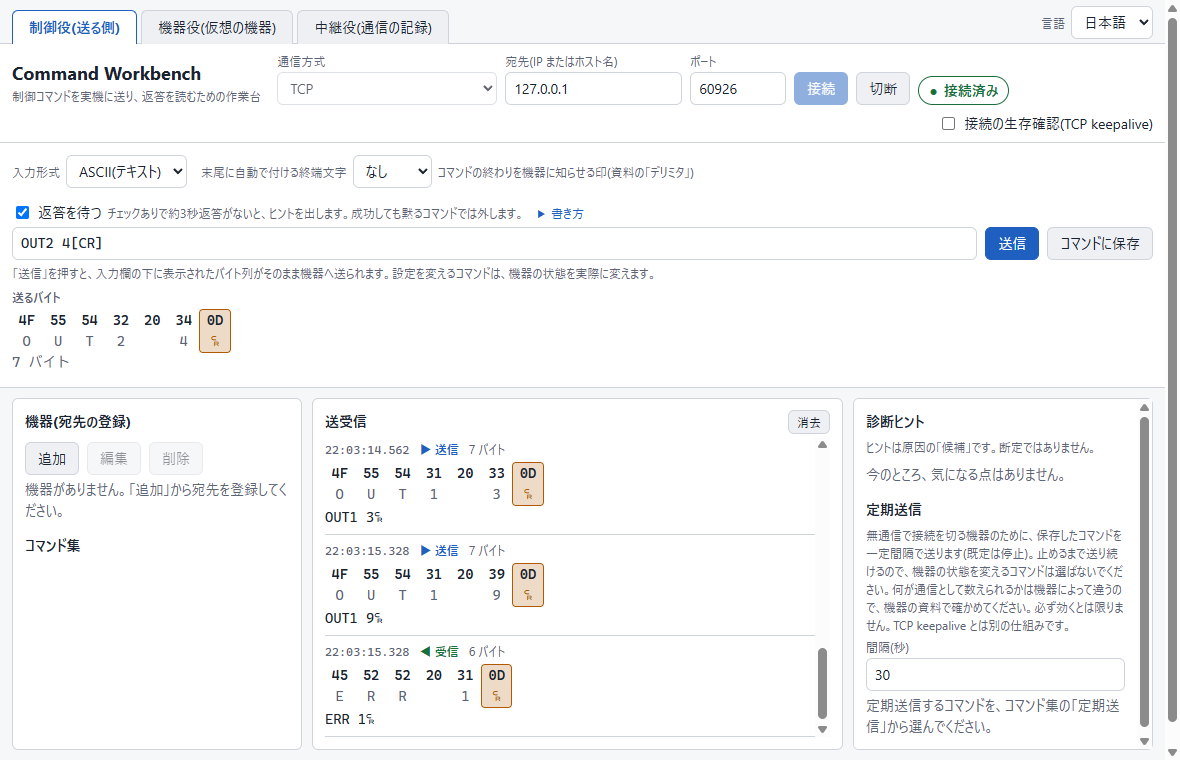
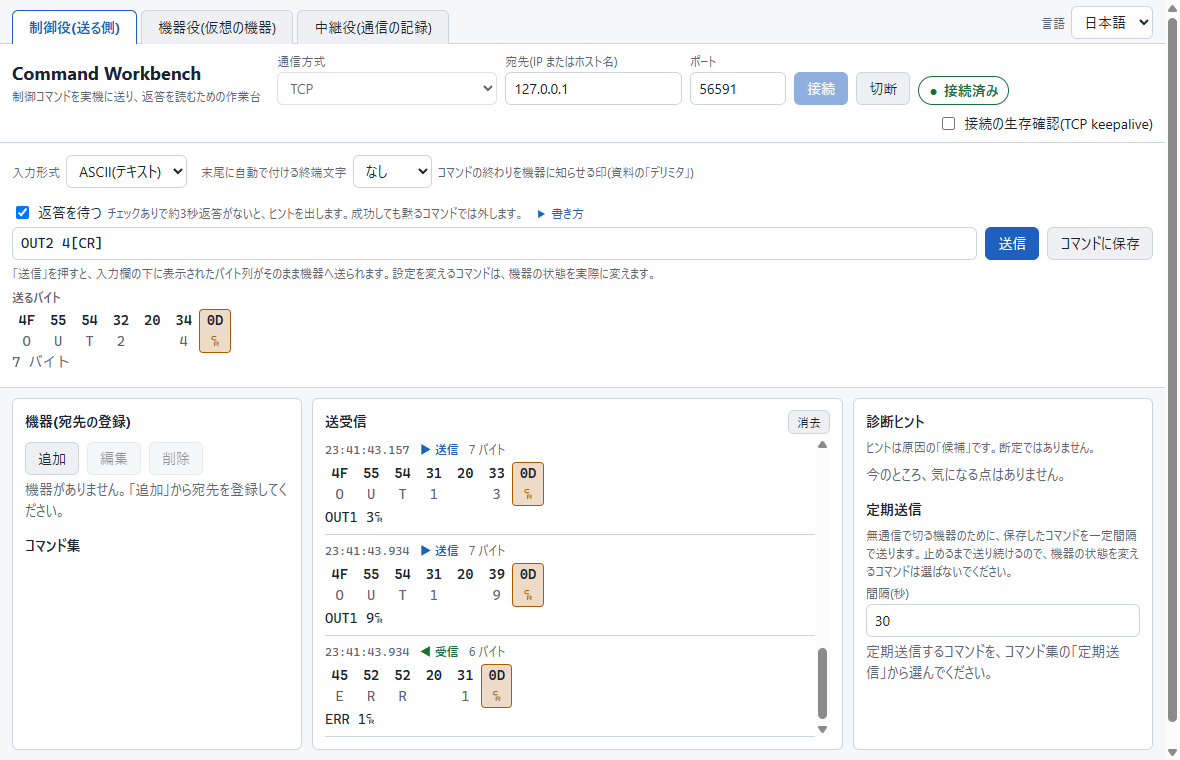
fix: make the whole window visible at start
The controller view no longer fits the default window since the help texts
grew: the right column showed a scrollbar and cut off the repeat-sending box.

- Shorten the repeat-sending help to what matters (purpose and the warning);
  the rest moves to a tooltip.
- Start the window at 800 px high, never taller than the screen's work area.
- Re-take the manual screenshots that show the right column.

diff --git a/src/renderer/i18n/ja.js b/src/renderer/i18n/ja.js
@@ -96,7 +96,8 @@
   'warn.terminator_doubled': '入力が既に終端(CR/LF)で終わっています。「自動で付ける終端」も選ばれているので、終端が二重に送られます。',
 
   'periodic.title': '定期送信',
-  'periodic.help': '無通信で接続を切る機器のために、保存したコマンドを一定間隔で送ります(既定は停止)。止めるまで送り続けるので、機器の状態を変えるコマンドは選ばないでください。何が通信として数えられるかは機器によって違うので、機器の資料で確かめてください。必ず効くとは限りません。TCP keepalive とは別の仕組みです。',
+  'periodic.help': '無通信で切る機器のために、保存したコマンドを一定間隔で送ります。止めるまで送り続けるので、機器の状態を変えるコマンドは選ばないでください。',
+  'periodic.help.detail': '何が通信として数えられるかは機器によって違うので、機器の資料で確かめてください。必ず効くとは限りません。TCP keepalive とは別の仕組みです。',
   'periodic.interval': '間隔(秒)',
   'periodic.start': '開始',
   'periodic.stop': '停止',

diff --git a/src/renderer/i18n/en.js b/src/renderer/i18n/en.js
@@ -96,7 +96,8 @@
   'warn.terminator_doubled': 'The input already ends with a terminator (CR/LF) and an automatic terminator is also selected, so the terminator will be sent twice.',
 
   'periodic.title': 'Repeat sending',
-  'periodic.help': 'For devices that close a quiet connection: sends a saved command at a fixed interval (off by default). It keeps sending until you stop it, so do not choose a command that changes the device. What counts as activity differs between devices, so check the device documentation; this is not guaranteed to keep a connection open. It is different from TCP keepalive.',
+  'periodic.help': 'For devices that close a quiet connection: sends a saved command at a fixed interval. It keeps sending until you stop it, so do not choose a command that changes the device.',
+  'periodic.help.detail': 'What counts as activity differs between devices, so check the device documentation. This is not guaranteed to keep a connection open. It is different from TCP keepalive.',
   'periodic.interval': 'Interval (seconds)',
   'periodic.start': 'Start',
   'periodic.stop': 'Stop',

diff --git a/src/main/main.js b/src/main/main.js
@@ -1,7 +1,7 @@
 // Main process entry point: creates the window and wires the pieces together.
 // The rules for talking to a device live in service.js; this file only connects Electron to it.
 const {
-  app, BrowserWindow, Menu, dialog, ipcMain, protocol, session,
+  app, BrowserWindow, Menu, dialog, ipcMain, protocol, screen, session,
 } = require('electron');
 const fs = require('node:fs');
 const fsp = require('node:fs/promises');
@@ -209,9 +209,11 @@ if (!gotLock) {
     session.defaultSession.setPermissionRequestHandler((_contents, _permission, callback) => callback(false));
 
     buildApp();
+    // Tall enough that nothing is cut off at the start, but never taller than the screen's work area.
+    const workHeight = screen.getPrimaryDisplay().workAreaSize.height;
     mainWindow = new BrowserWindow({
       width: 1100,
-      height: 720,
+      height: Math.min(800, workHeight),
       minWidth: 820,
       minHeight: 520,
       // The window icon (the program file carries its own, set when it is built).

diff --git a/src/renderer/index.html b/src/renderer/index.html
@@ -150,7 +150,7 @@
       <p id="hints-empty" class="muted" data-i18n="hints.empty"></p>
 
       <h2 data-i18n="periodic.title"></h2>
-      <p class="muted small-text" data-i18n="periodic.help"></p>
+      <p class="muted small-text" data-i18n="periodic.help" data-i18n-title="periodic.help.detail"></p>
       <label class="field">
         <span data-i18n="periodic.interval"></span>
         <input id="periodic-seconds" type="number" min="1" max="3600" value="30" inputmode="numeric">
